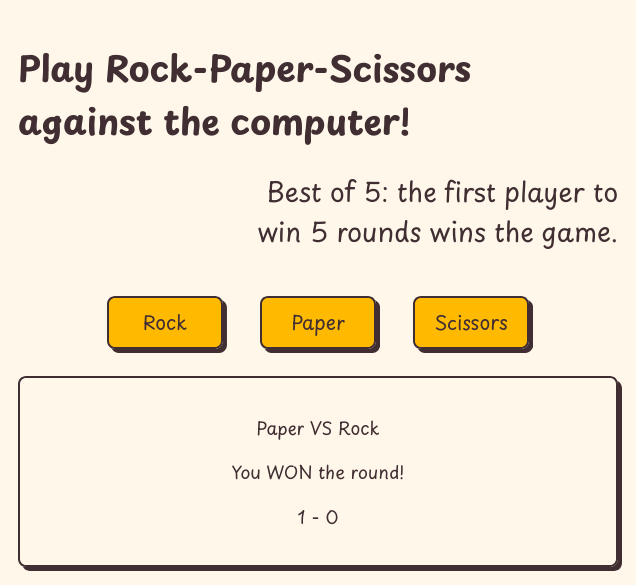
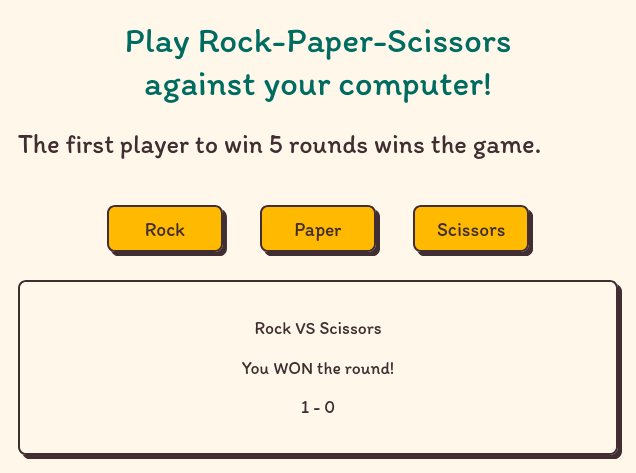
changed font

diff --git a/src/rock-paper-scissors.html b/src/rock-paper-scissors.html
@@ -8,14 +8,14 @@
 		<script src="rps.js"></script>
 		<link rel="preconnect" href="https://fonts.googleapis.com">
 		<link rel="preconnect" href="https://fonts.gstatic.com" crossorigin>
-		<link href="https://fonts.googleapis.com/css2?family=Playpen+Sans:wght@100..800&display=swap" rel="stylesheet">
+		<link href="https://fonts.googleapis.com/css2?family=Itim&display=swap" rel="stylesheet">
 	</head>
 	<body>
 		<h1>
 			Play Rock-Paper-Scissors against your computer!
 		</h1>
 		<h2>
-			Best of 5: the first player to win 5 rounds wins the game.
+			The first player to win 5 rounds wins the game.
 		</h2>
 		<div id="choices">
 			<button onclick="playRound(0)">Rock</button>

diff --git a/src/style.css b/src/style.css
@@ -12,7 +12,7 @@
 body {
   background-color: var(--bkg);
   color: var(--txt);
-  font-family: "Playpen Sans", cursive;
+  font-family: "Itim", sans-serif;
   font-size: 1.1em;
   margin: auto;
   max-width: 600px;
@@ -25,13 +25,14 @@ body {
 }
 
 h1, h2 {
+  font-weight: normal;
   margin-top: 0;
   text-wrap: balance;
 }
 
-h2 {
-  font-weight: normal;
-  text-align: right;
+h1 {
+  color: var(--accent2);
+  text-align: center;
 }
 
 section {
@@ -40,10 +41,6 @@ section {
 
 #round, #endgame {
   text-align: center;
-}
-
-#endgame {
-  font-weight: bold;
 }
 
 footer {
